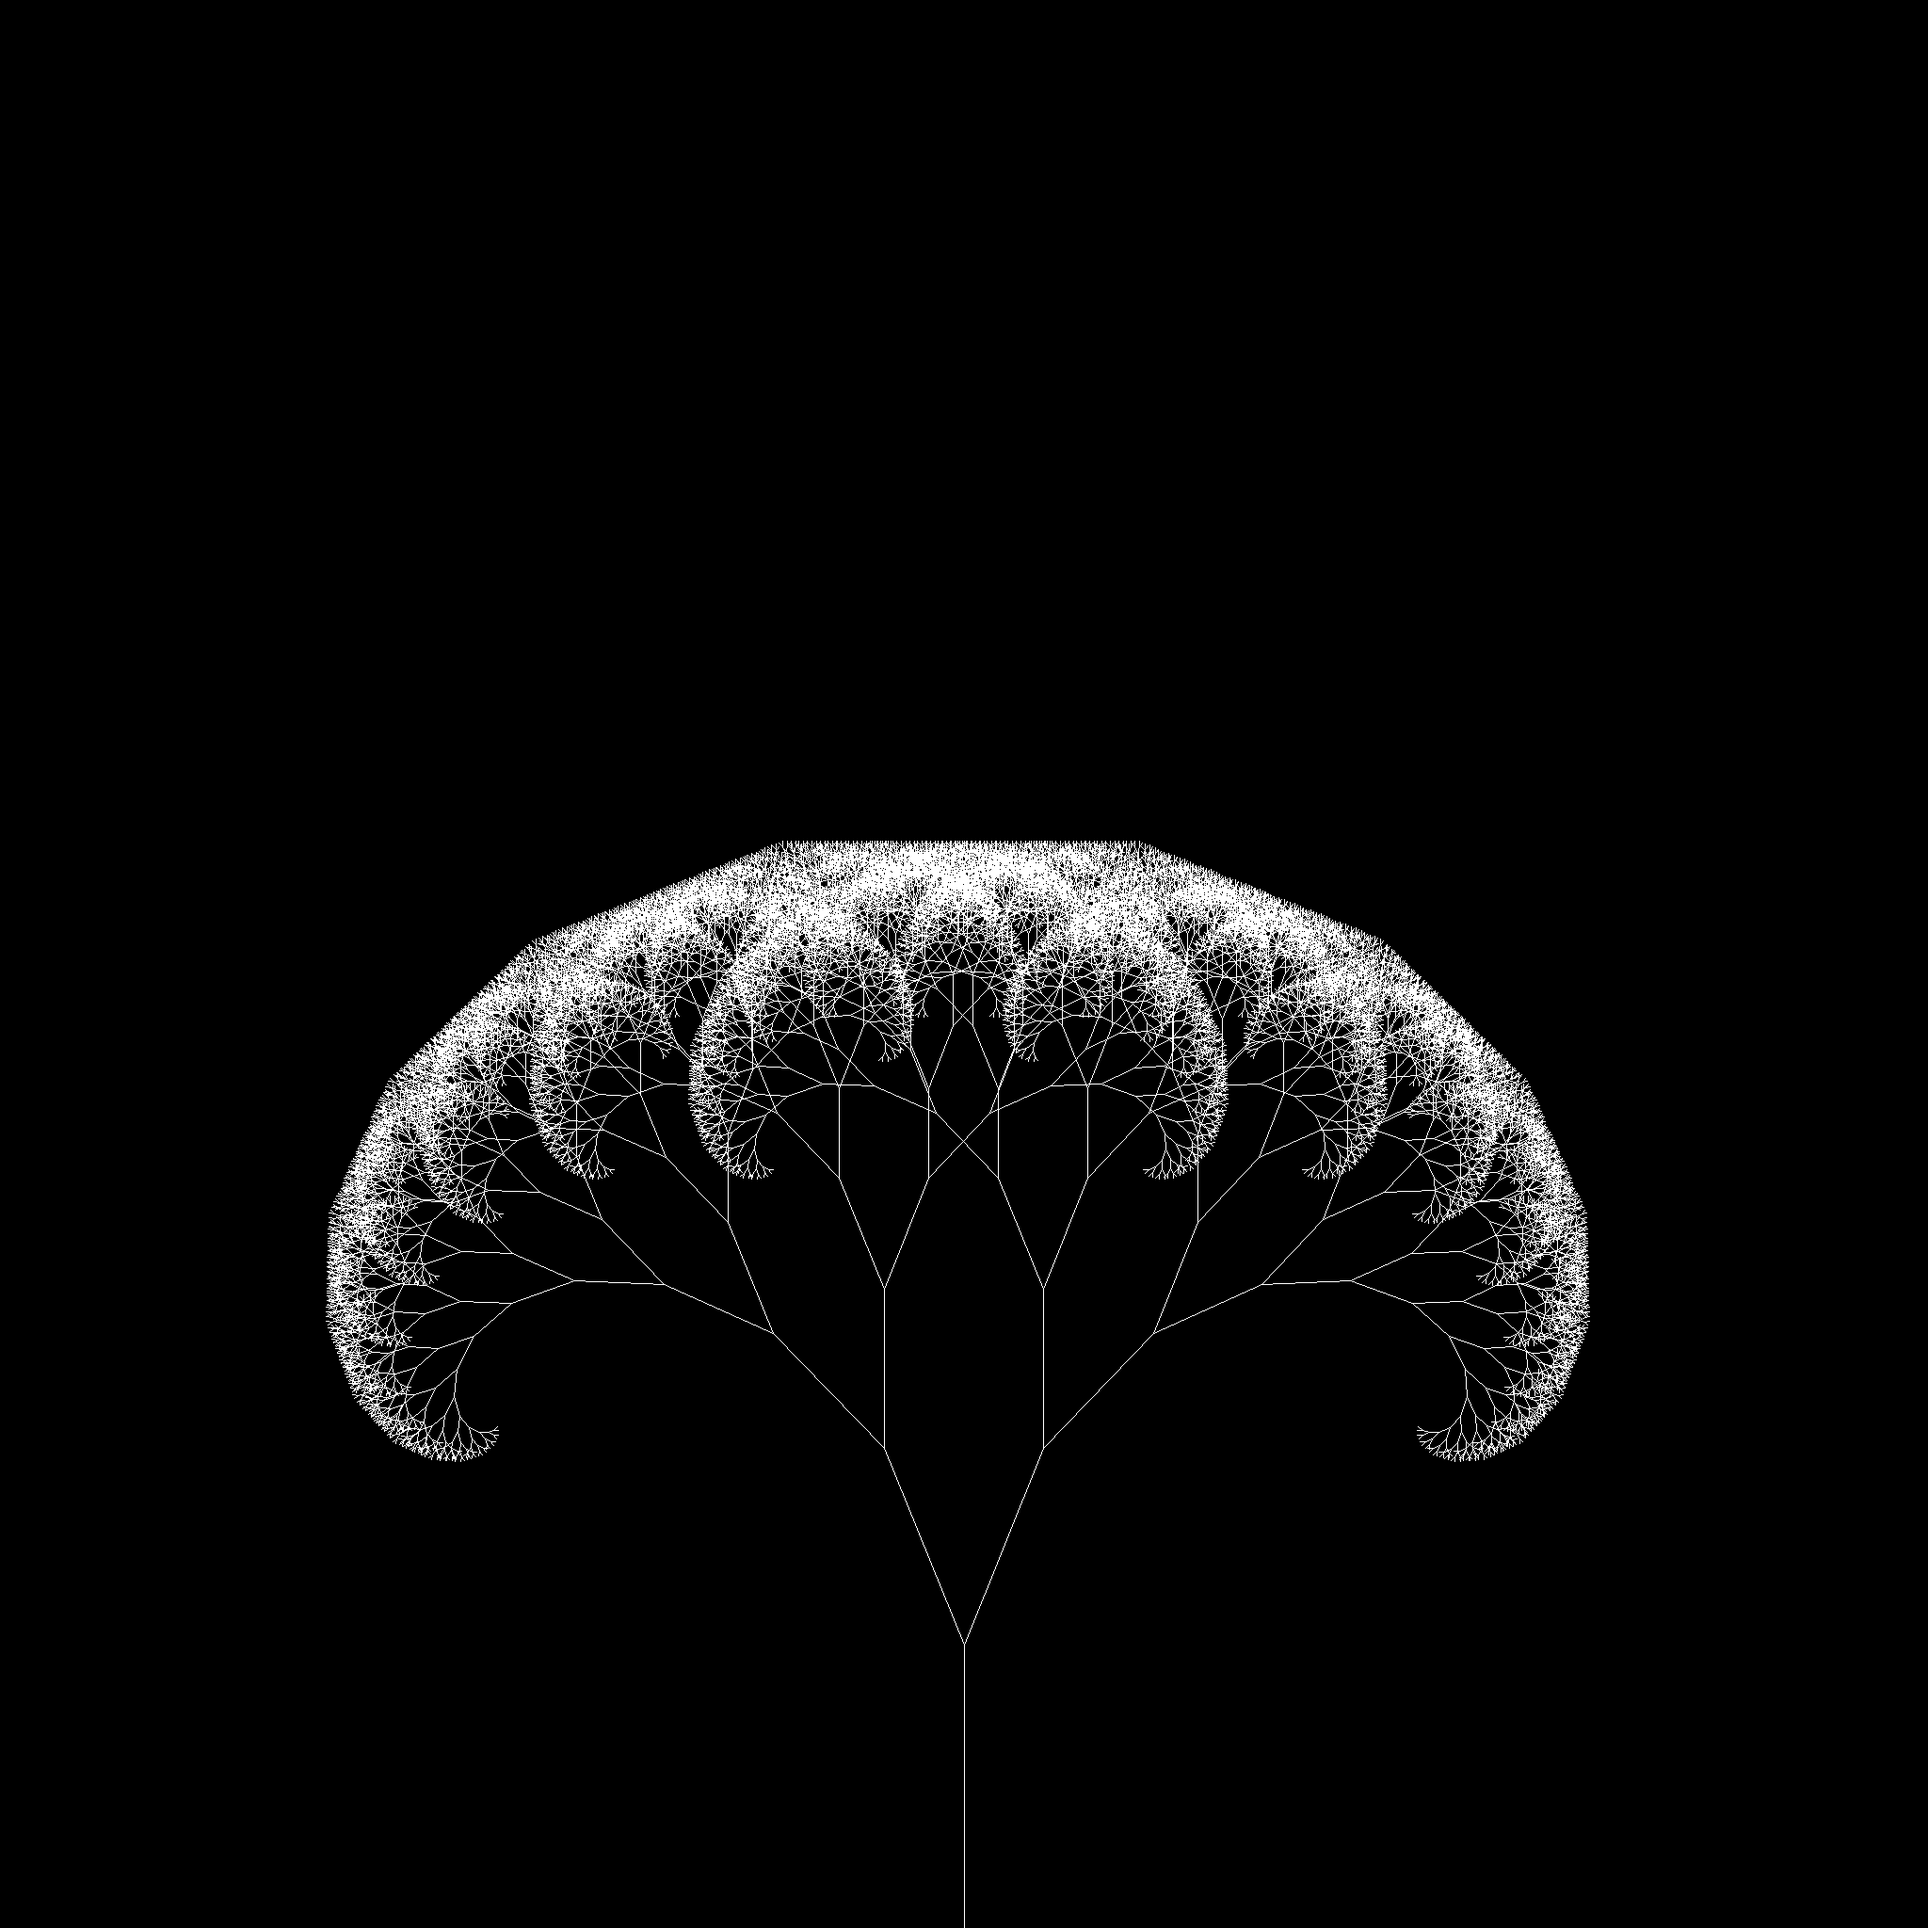
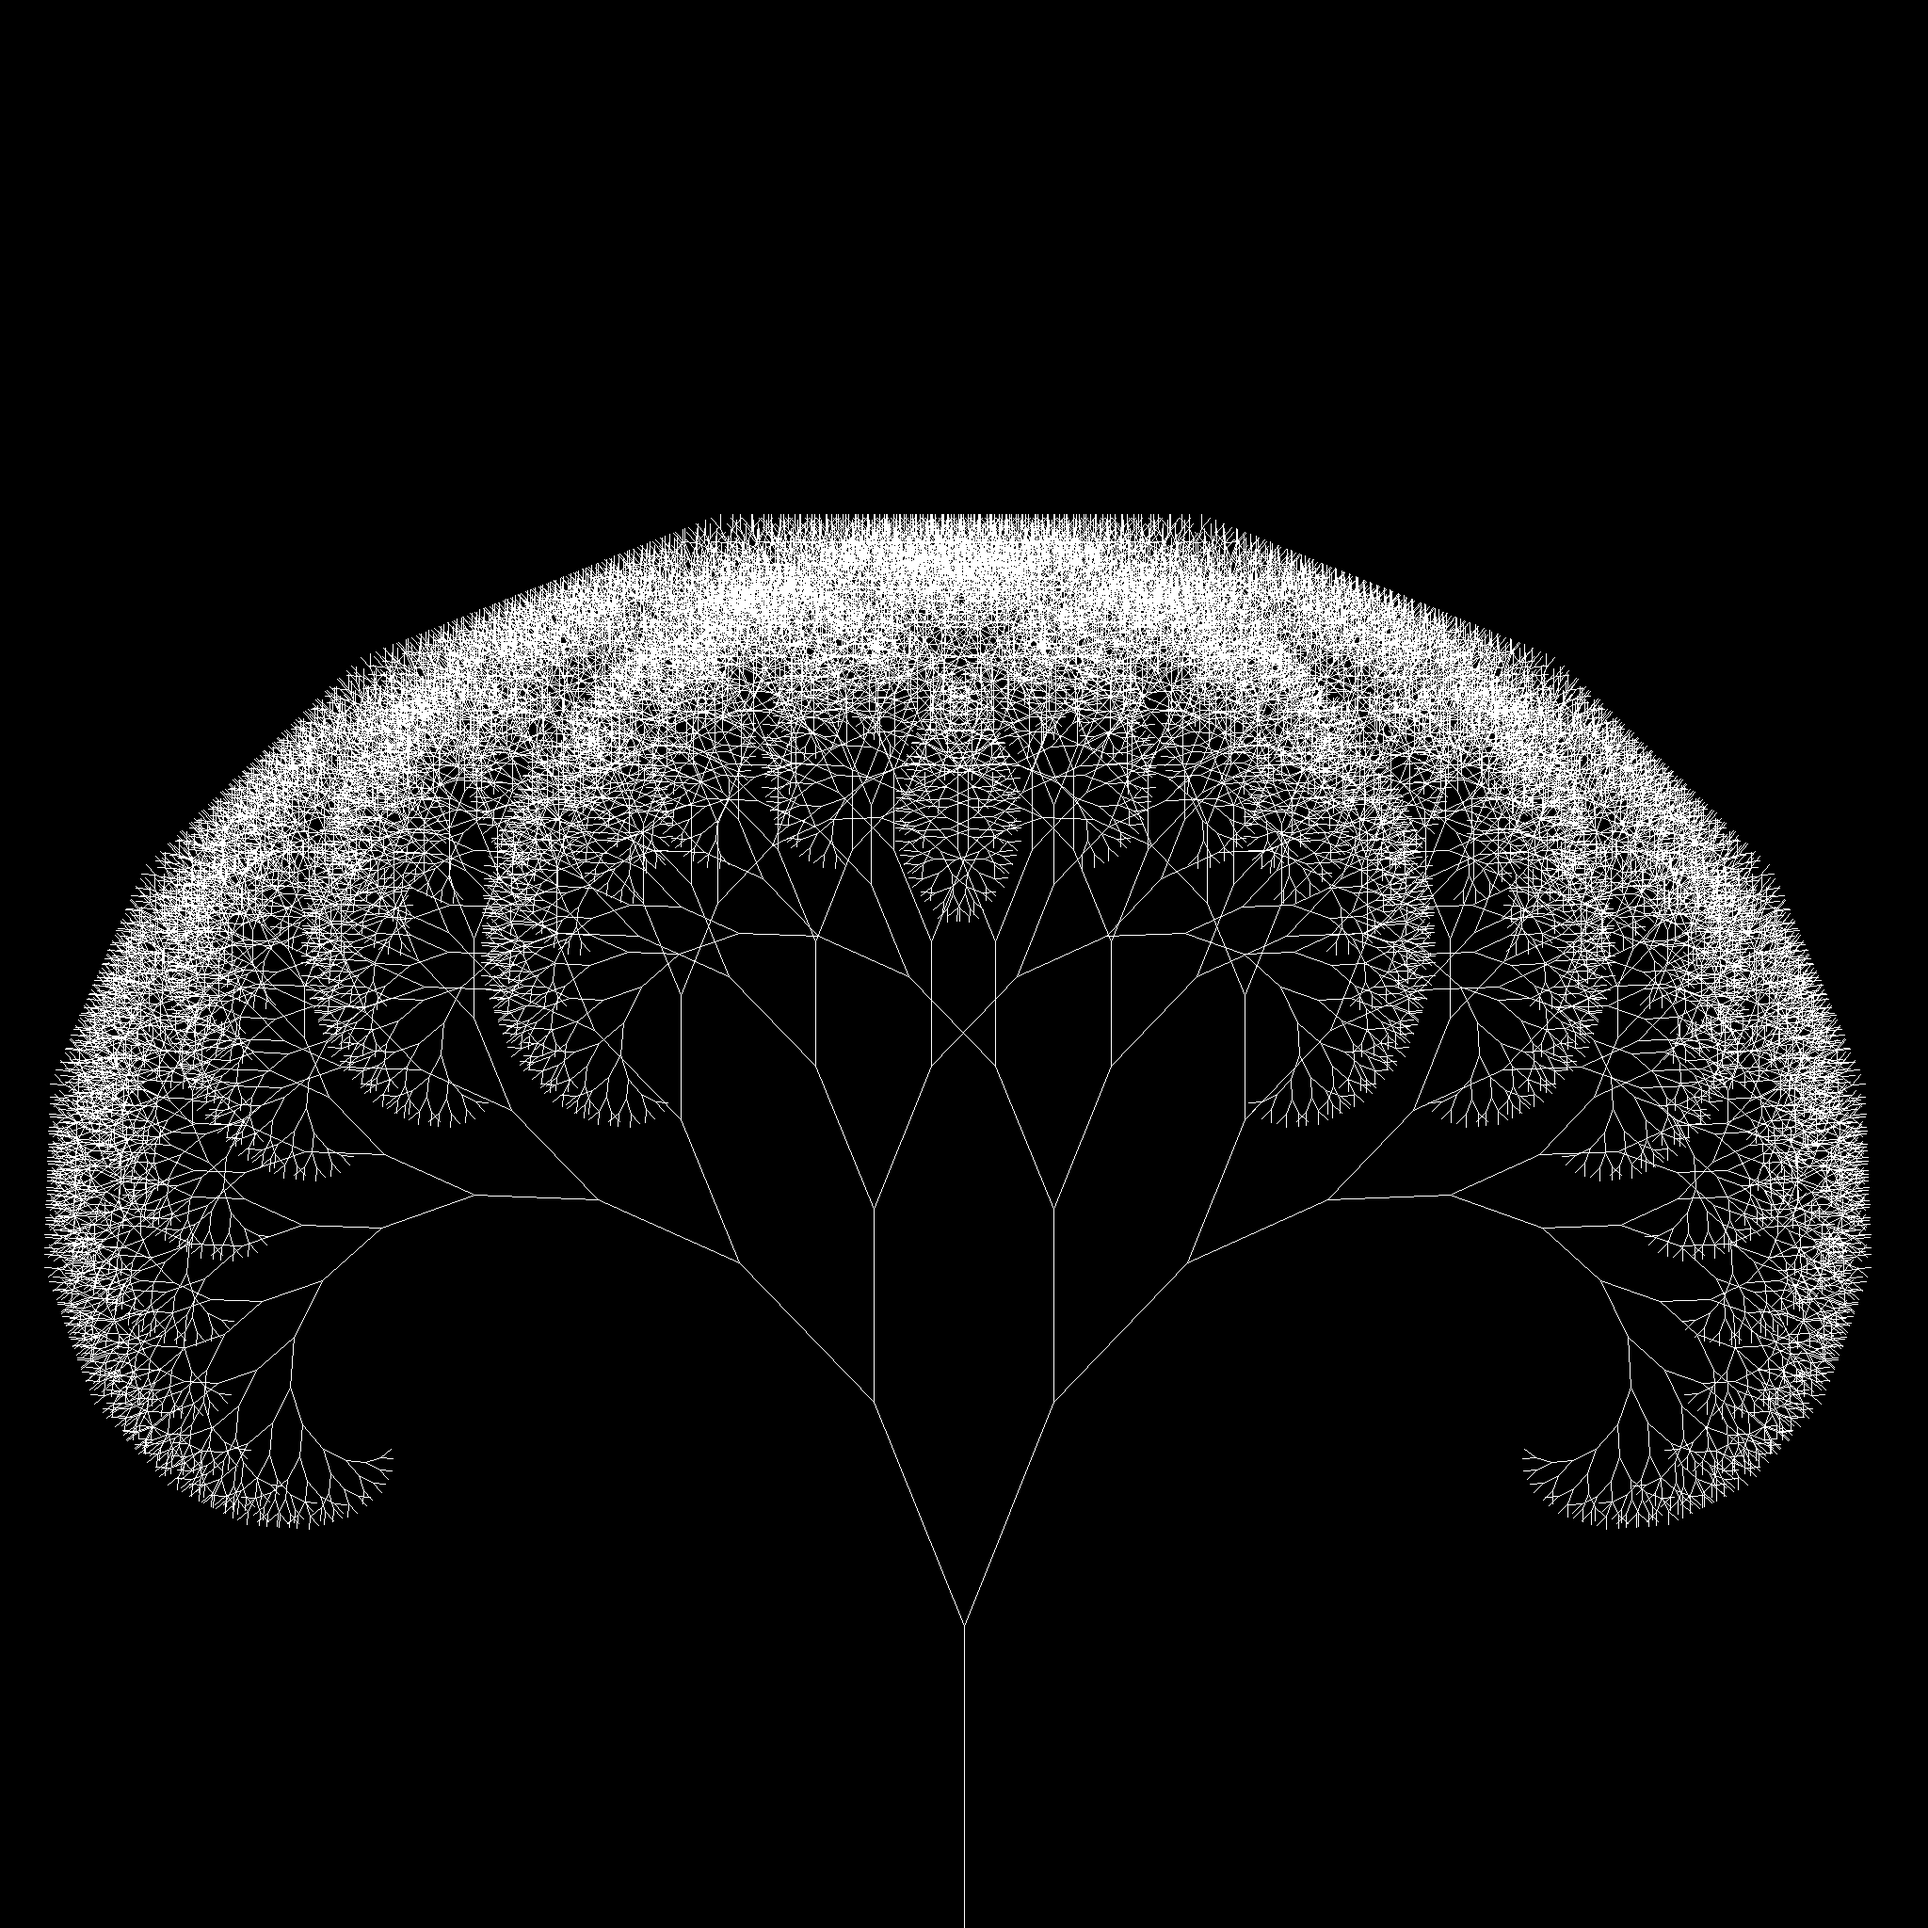
changed default values

Changed region(s): [[0.0312, 0.25, 0.9688, 0.7812]]

diff --git a/src/lib.rs b/src/lib.rs
@@ -21,7 +21,7 @@ pub struct Config {
     angle: f64,
 
     /// Init branch length
-    #[arg(short, long, default_value_t = 300.0)]
+    #[arg(short, long, default_value_t = 320.0)]
     branch_length: f64,
 
     /// Ratio of branch length

diff --git a/README.md b/README.md
@@ -2,6 +2,8 @@
 
 This Rust program generates fractal trees
 
+![Example image](out.png)
+
 ## Arguments
 
 ```text
